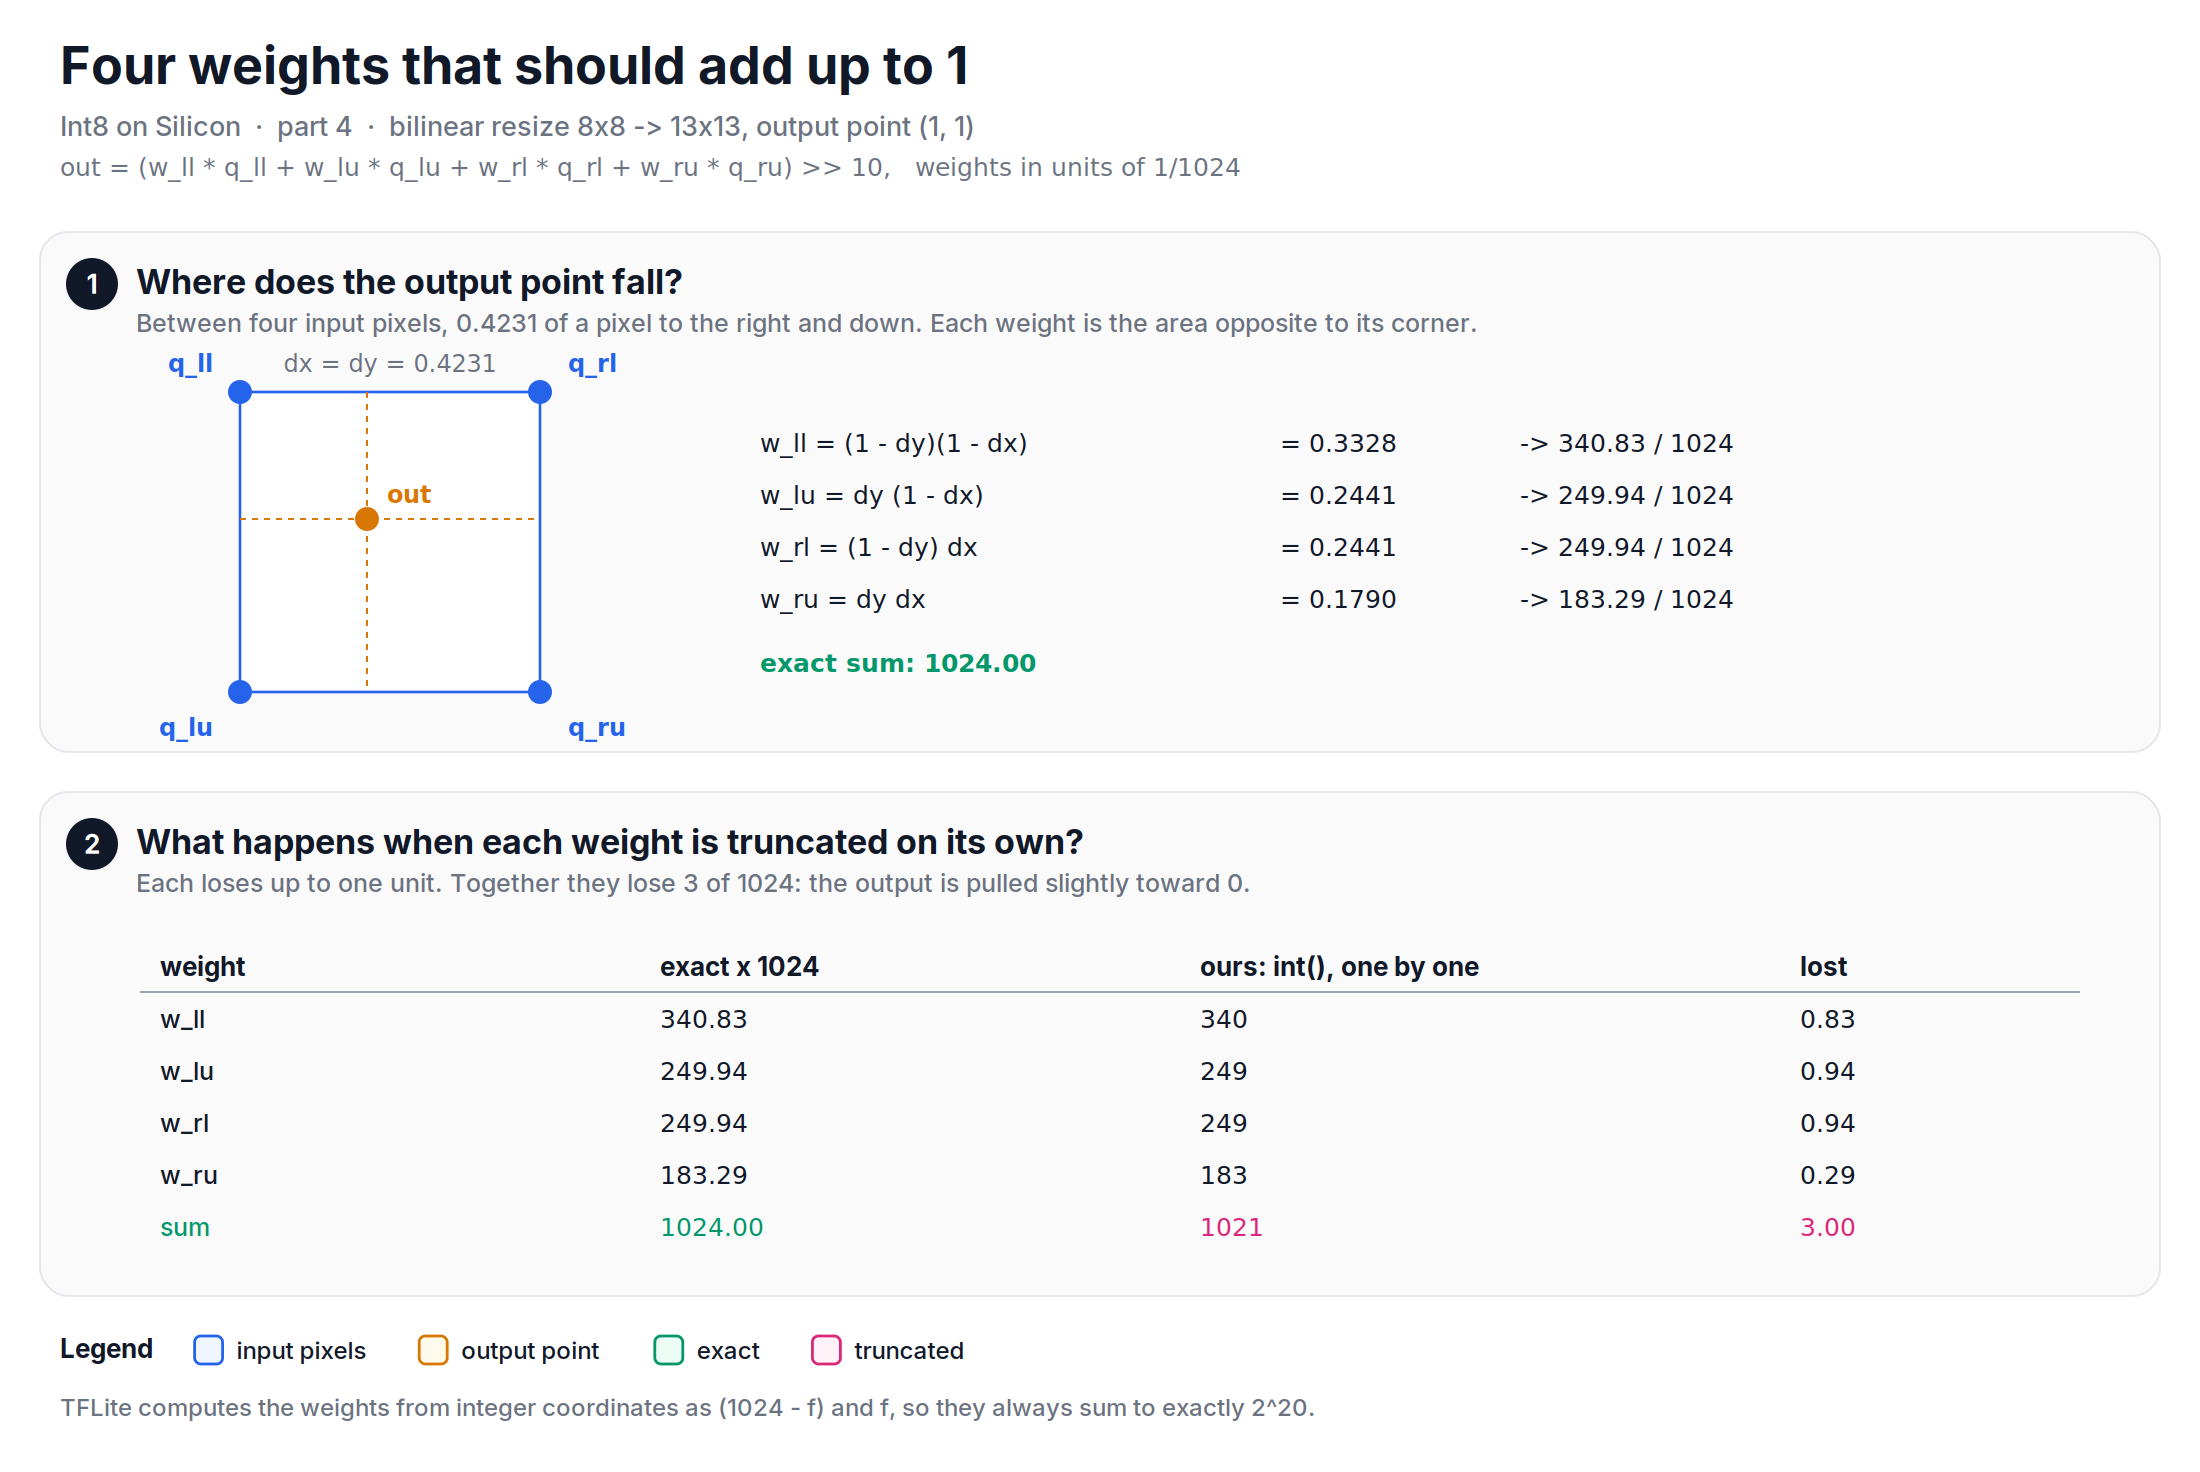
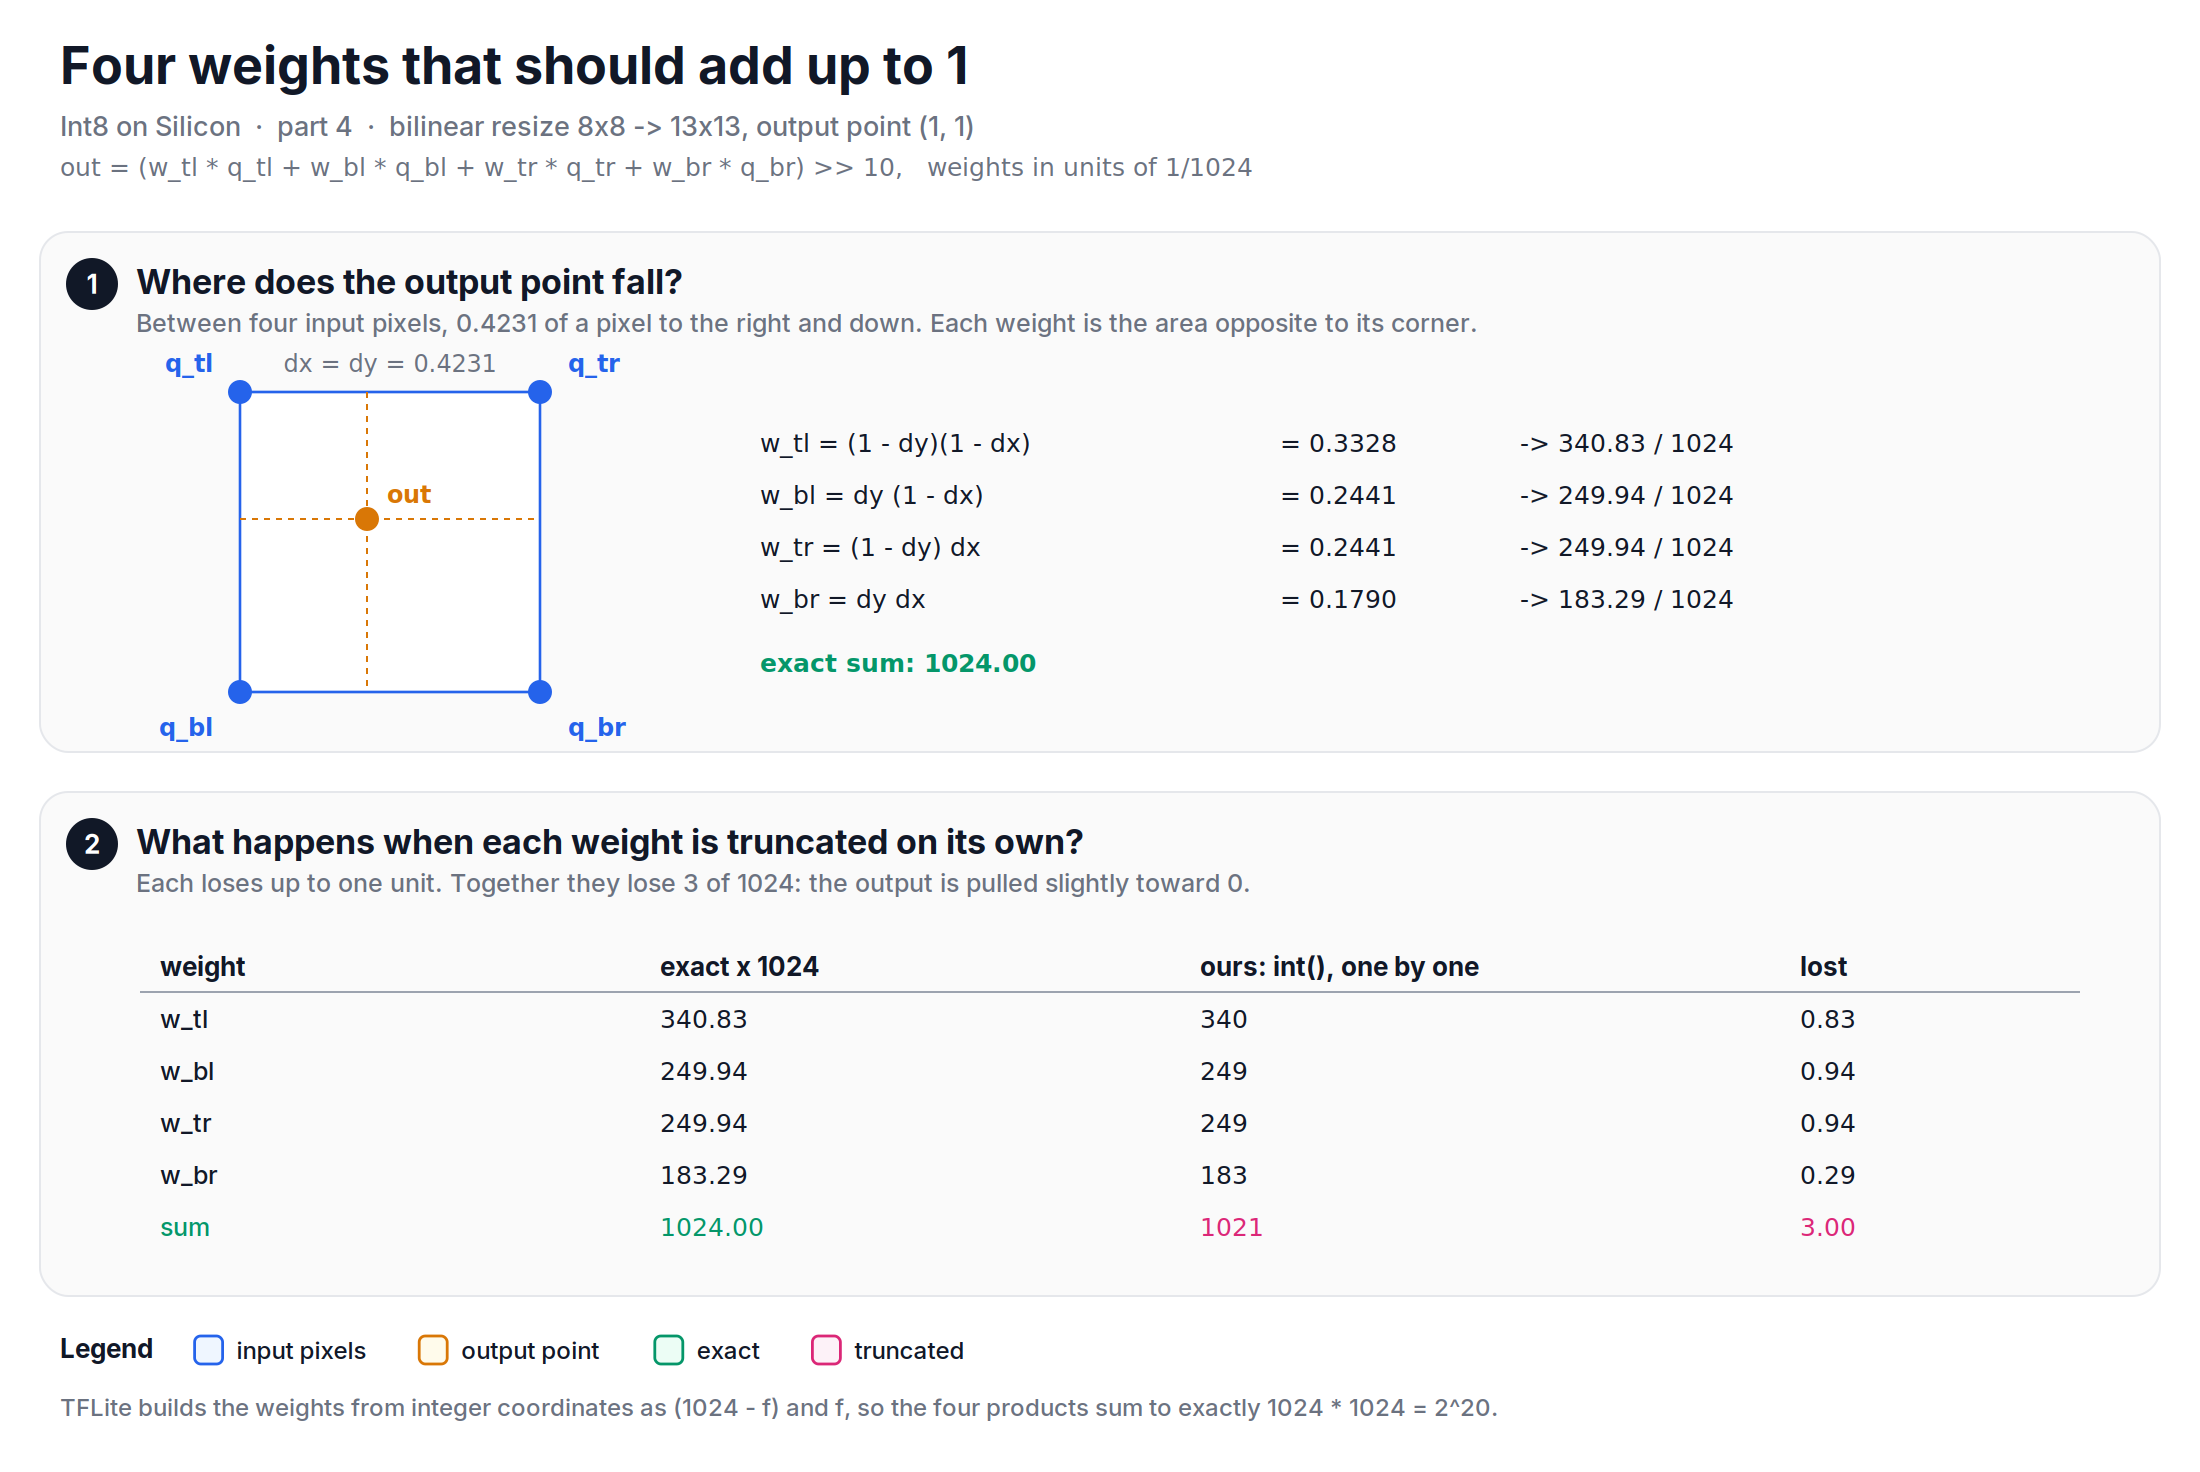
Int8 on Silicon, part 4: review fixes
Table truncation goes toward zero (not 'one below'), 'implemented' not
'rewrote', softmax argmax sentence, 1024 x 1024 = 2^20 explained, resize
corners named tl/tr/bl/br, redundant figure 3 replaced by a global-pool
figure in its own section, code block without walrus, LinkedIn wording.

diff --git a/learnings/20261107_int8_on_silicon_4/diagrams/fig5_resize_weights.py b/learnings/20261107_int8_on_silicon_4/diagrams/fig5_resize_weights.py
@@ -10,7 +10,7 @@ from svglib import AMBER, BLUE, EMERALD, INK, MUTE, PINK, Diagram
 d = Diagram(width=1100)
 d.header("Four weights that should add up to 1",
          "Int8 on Silicon  ·  part 4  ·  bilinear resize 8x8 -> 13x13, output point (1, 1)",
-         params="out = (w_ll * q_ll + w_lu * q_lu + w_rl * q_rl + w_ru * q_ru) >> 10,   weights in units of 1/1024")
+         params="out = (w_tl * q_tl + w_bl * q_bl + w_tr * q_tr + w_br * q_br) >> 10,   weights in units of 1/1024")
 
 # panel 1: geometry
 y = 116
@@ -18,8 +18,8 @@ d.panel(y, 260, 1, "Where does the output point fall?",
         "Between four input pixels, 0.4231 of a pixel to the right and down. Each weight is the area opposite to its corner.")
 x0, y0, S = 120, y + 80, 150
 d.rect(x0, y0, S, S, fill="#ffffff", stroke=BLUE, rx=2, sw=1.3)
-for cx, cy, lab, w in [(x0, y0, "q_ll", "340.83"), (x0, y0 + S, "q_lu", "249.94"),
-                       (x0 + S, y0, "q_rl", "249.94"), (x0 + S, y0 + S, "q_ru", "183.29")]:
+for cx, cy, lab, w in [(x0, y0, "q_tl", "340.83"), (x0, y0 + S, "q_bl", "249.94"),
+                       (x0 + S, y0, "q_tr", "249.94"), (x0 + S, y0 + S, "q_br", "183.29")]:
     d.circle(cx, cy, 6, BLUE[0])
     d.text(cx + (-14 if cx == x0 else 14), cy + (-10 if cy == y0 else 22), lab, 12, BLUE, "bold",
            "end" if cx == x0 else "start", mono=True)
@@ -29,16 +29,16 @@ d.line(x0, py, x0 + S, py, AMBER, sw=1, dash="3 3")
 d.circle(px, py, 6, AMBER[0])
 d.text(px + 10, py - 8, "out", 12, AMBER, "bold", mono=True)
 d.text(x0 + 0.5 * S, y0 - 10, "dx = dy = 0.4231", 12, MUTE, anchor="middle", mono=True)
-d.text(380, y0 + 30, "w_ll = (1 - dy)(1 - dx)", 12.5, INK, mono=True)
+d.text(380, y0 + 30, "w_tl = (1 - dy)(1 - dx)", 12.5, INK, mono=True)
 d.text(640, y0 + 30, "= 0.3328", 12.5, INK, mono=True)
 d.text(760, y0 + 30, "-> 340.83 / 1024", 12.5, INK, mono=True)
-d.text(380, y0 + 56, "w_lu = dy (1 - dx)", 12.5, INK, mono=True)
+d.text(380, y0 + 56, "w_bl = dy (1 - dx)", 12.5, INK, mono=True)
 d.text(640, y0 + 56, "= 0.2441", 12.5, INK, mono=True)
 d.text(760, y0 + 56, "-> 249.94 / 1024", 12.5, INK, mono=True)
-d.text(380, y0 + 82, "w_rl = (1 - dy) dx", 12.5, INK, mono=True)
+d.text(380, y0 + 82, "w_tr = (1 - dy) dx", 12.5, INK, mono=True)
 d.text(640, y0 + 82, "= 0.2441", 12.5, INK, mono=True)
 d.text(760, y0 + 82, "-> 249.94 / 1024", 12.5, INK, mono=True)
-d.text(380, y0 + 108, "w_ru = dy dx", 12.5, INK, mono=True)
+d.text(380, y0 + 108, "w_br = dy dx", 12.5, INK, mono=True)
 d.text(640, y0 + 108, "= 0.1790", 12.5, INK, mono=True)
 d.text(760, y0 + 108, "-> 183.29 / 1024", 12.5, INK, mono=True)
 d.text(380, y0 + 140, "exact sum: 1024.00", 12.5, EMERALD, "bold", mono=True)
@@ -47,10 +47,10 @@ d.text(380, y0 + 140, "exact sum: 1024.00", 12.5, EMERALD, "bold", mono=True)
 y += 280
 rows = [
     ("weight", "exact x 1024", "ours: int(), one by one", "lost"),
-    ("w_ll", "340.83", "340", "0.83"),
-    ("w_lu", "249.94", "249", "0.94"),
-    ("w_rl", "249.94", "249", "0.94"),
-    ("w_ru", "183.29", "183", "0.29"),
+    ("w_tl", "340.83", "340", "0.83"),
+    ("w_bl", "249.94", "249", "0.94"),
+    ("w_tr", "249.94", "249", "0.94"),
+    ("w_br", "183.29", "183", "0.29"),
     ("sum", "1024.00", "1021", "3.00"),
 ]
 H = table_height(len(rows))
@@ -61,5 +61,5 @@ table(d, y + 92, rows, [80, 330, 600, 900],
 
 y += H + 20
 d.legend(30, y, [(BLUE, "input pixels"), (AMBER, "output point"), (EMERALD, "exact"), (PINK, "truncated")])
-y = d.footnotes(30, y + 40, ["TFLite computes the weights from integer coordinates as (1024 - f) and f, so they always sum to exactly 2^20."])
+y = d.footnotes(30, y + 40, ["TFLite builds the weights from integer coordinates as (1024 - f) and f, so the four products sum to exactly 1024 * 1024 = 2^20."])
 d.save(height=y + 10)

diff --git a/learnings/20261107_int8_on_silicon_4/diagrams/fig3_global_pool.py b/learnings/20261107_int8_on_silicon_4/diagrams/fig3_global_pool.py
@@ -1,0 +1,36 @@
+"""Figure 3: global average pooling with two roundings vs one.
+
+Values: no_divider.py, section 2: global 7x7 pool, s_in 0.05 -> s_out 0.02:
+mean multiplier floor(2^20 / 49) = 21399; two roundings 60.51 % differ from exact (max 2); one rounding 0 %.
+"""
+
+from figkit import row
+from svglib import AMBER, EMERALD, PINK, Diagram
+
+d = Diagram(width=1100)
+d.header("Global average pooling: one rounding too many",
+         "Int8 on Silicon  ·  part 4  ·  mean over 7x7 = 49 values  ·  s_in 0.05 -> s_out 0.02",
+         params="100,000 random 7x7 inputs, compared with exact rounding")
+
+y = 116
+d.panel(y, 170, 1, "What does the global pool kernel do?",
+        "It rounds the mean in input units, then rescales by s_in / s_out = 2.5, so the first rounding error grows 2.5x.")
+row(d, y + 74, [
+    ("round 1: mean", ["sum * floor(2^20 / 49)", ">> 20, in input units"], AMBER),
+    ("round 2: rescale", ["(mean - z_in) * alpha", ">> 20, + z_out"], AMBER),
+    ("vs exact", ["60.5 % of outputs differ", "by up to 2"], PINK),
+], AMBER[0])
+
+y += 190
+d.panel(y, 170, 2, "What does one rounding give?",
+        "Fold 1/49 and s_in / s_out into one alpha, and round once.")
+row(d, y + 74, [
+    ("one alpha", ["s_in / (s_out * 49)", "* 2^20"], AMBER),
+    ("one rounding", ["(sum - 49 z_in) * alpha", ">> 20, + z_out"], AMBER),
+    ("vs exact", ["0 % of outputs differ", ""], EMERALD),
+], AMBER[0])
+
+y += 190
+d.legend(30, y, [(AMBER, "a rounding step"), (PINK, "two roundings"), (EMERALD, "one rounding")])
+y = d.footnotes(30, y + 40, ["Global pool: s_in = 0.05, z_in = -10, s_out = 0.02, z_out = 5."])
+d.save(height=y + 10)

diff --git a/learnings/20261107_int8_on_silicon_4/diagrams/fig2_lut_softmax.py b/learnings/20261107_int8_on_silicon_4/diagrams/fig2_lut_softmax.py
@@ -25,7 +25,7 @@ d.box(XS[2], y + 74, BW, BH, "int8 output", ["sigmoid, tanh,", "hard-swish, rsqr
 
 y += 190
 d.panel(y, 170, 2, "Does the table round or truncate?",
-        "Our tables truncated with int(), except tanh. Each truncated entry is 1 below the rounded one.")
+        "Our tables truncated with int(), except tanh. Truncation can move an entry one step toward zero.")
 d.box(XS[0], y + 74, BW, BH, "sigmoid table", ["113 of 256 entries", "differ by 1"], col=PINK, mono_size=12)
 d.box(XS[1], y + 74, BW, BH, "hard-swish table", ["75 of 256 entries", "differ by 1"], col=PINK, mono_size=12)
 d.box(XS[2], y + 74, BW, BH, "example", ["q = 20: 84 (trunc.)", "vs 85 (rounded)"], col=NEUTRAL, mono_size=12)

diff --git a/learnings/20261107_int8_on_silicon_4/linkedin-post.md b/learnings/20261107_int8_on_silicon_4/linkedin-post.md
@@ -1,6 +1,6 @@
 # LinkedIn post: Int8 on Silicon - Part 4: Operations without a divider
 
-**Attach:** `fig1_avgpool_as_conv.png`, `fig2_lut_softmax.png`, `fig3_pool_and_resize.png` as a carousel (in order).
+**Attach:** `fig1_avgpool_as_conv.png`, `fig2_lut_softmax.png`, `fig3_global_pool.png` as a carousel (in order).
 
 ---
 
@@ -15,8 +15,8 @@ Softmax needs the whole row, so it ran in float on the host.
 The ideas held up. But re-running everything in NumPy this week found four small gaps:
 → SAME average pooling divides by 9 at the border, where TFLite divides by the valid count: border outputs off by up to 37.
 → Global average pooling rounded twice: 60% of outputs one or two steps off. One rounding is exact.
-→ The tables used int() instead of round(): 113 of 256 sigmoid entries one below.
-→ Resize weights were truncated one by one, so they summed to 1021 instead of 1024.
+→ The tables used int() instead of round(): 113 of 256 sigmoid entries one step off, toward zero.
+→ Resize weights were truncated one by one, so they summed to as low as 1021 instead of 1024.
 
 All cheap to fix. Final model accuracy was still on par with TFLite.
 
